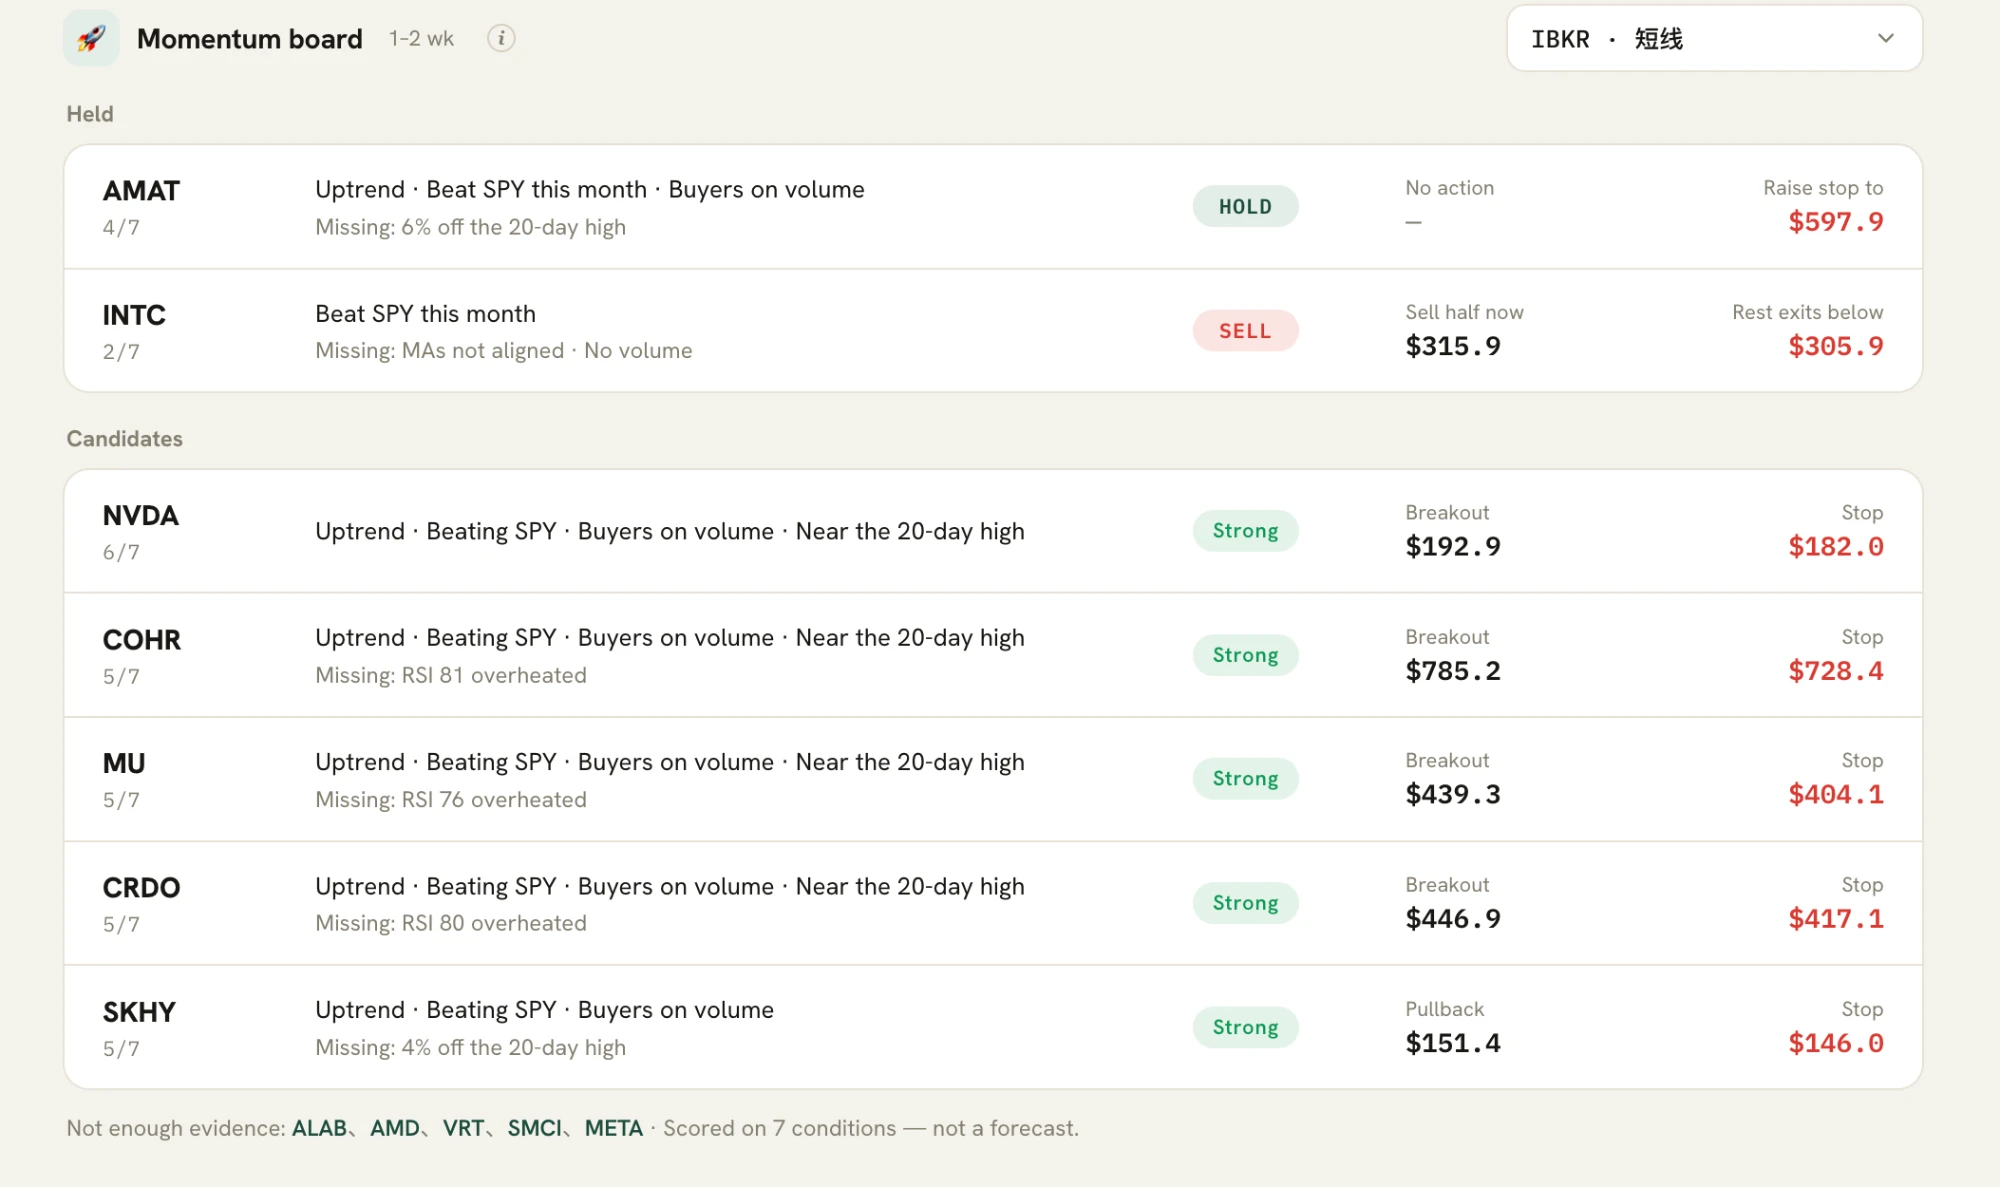
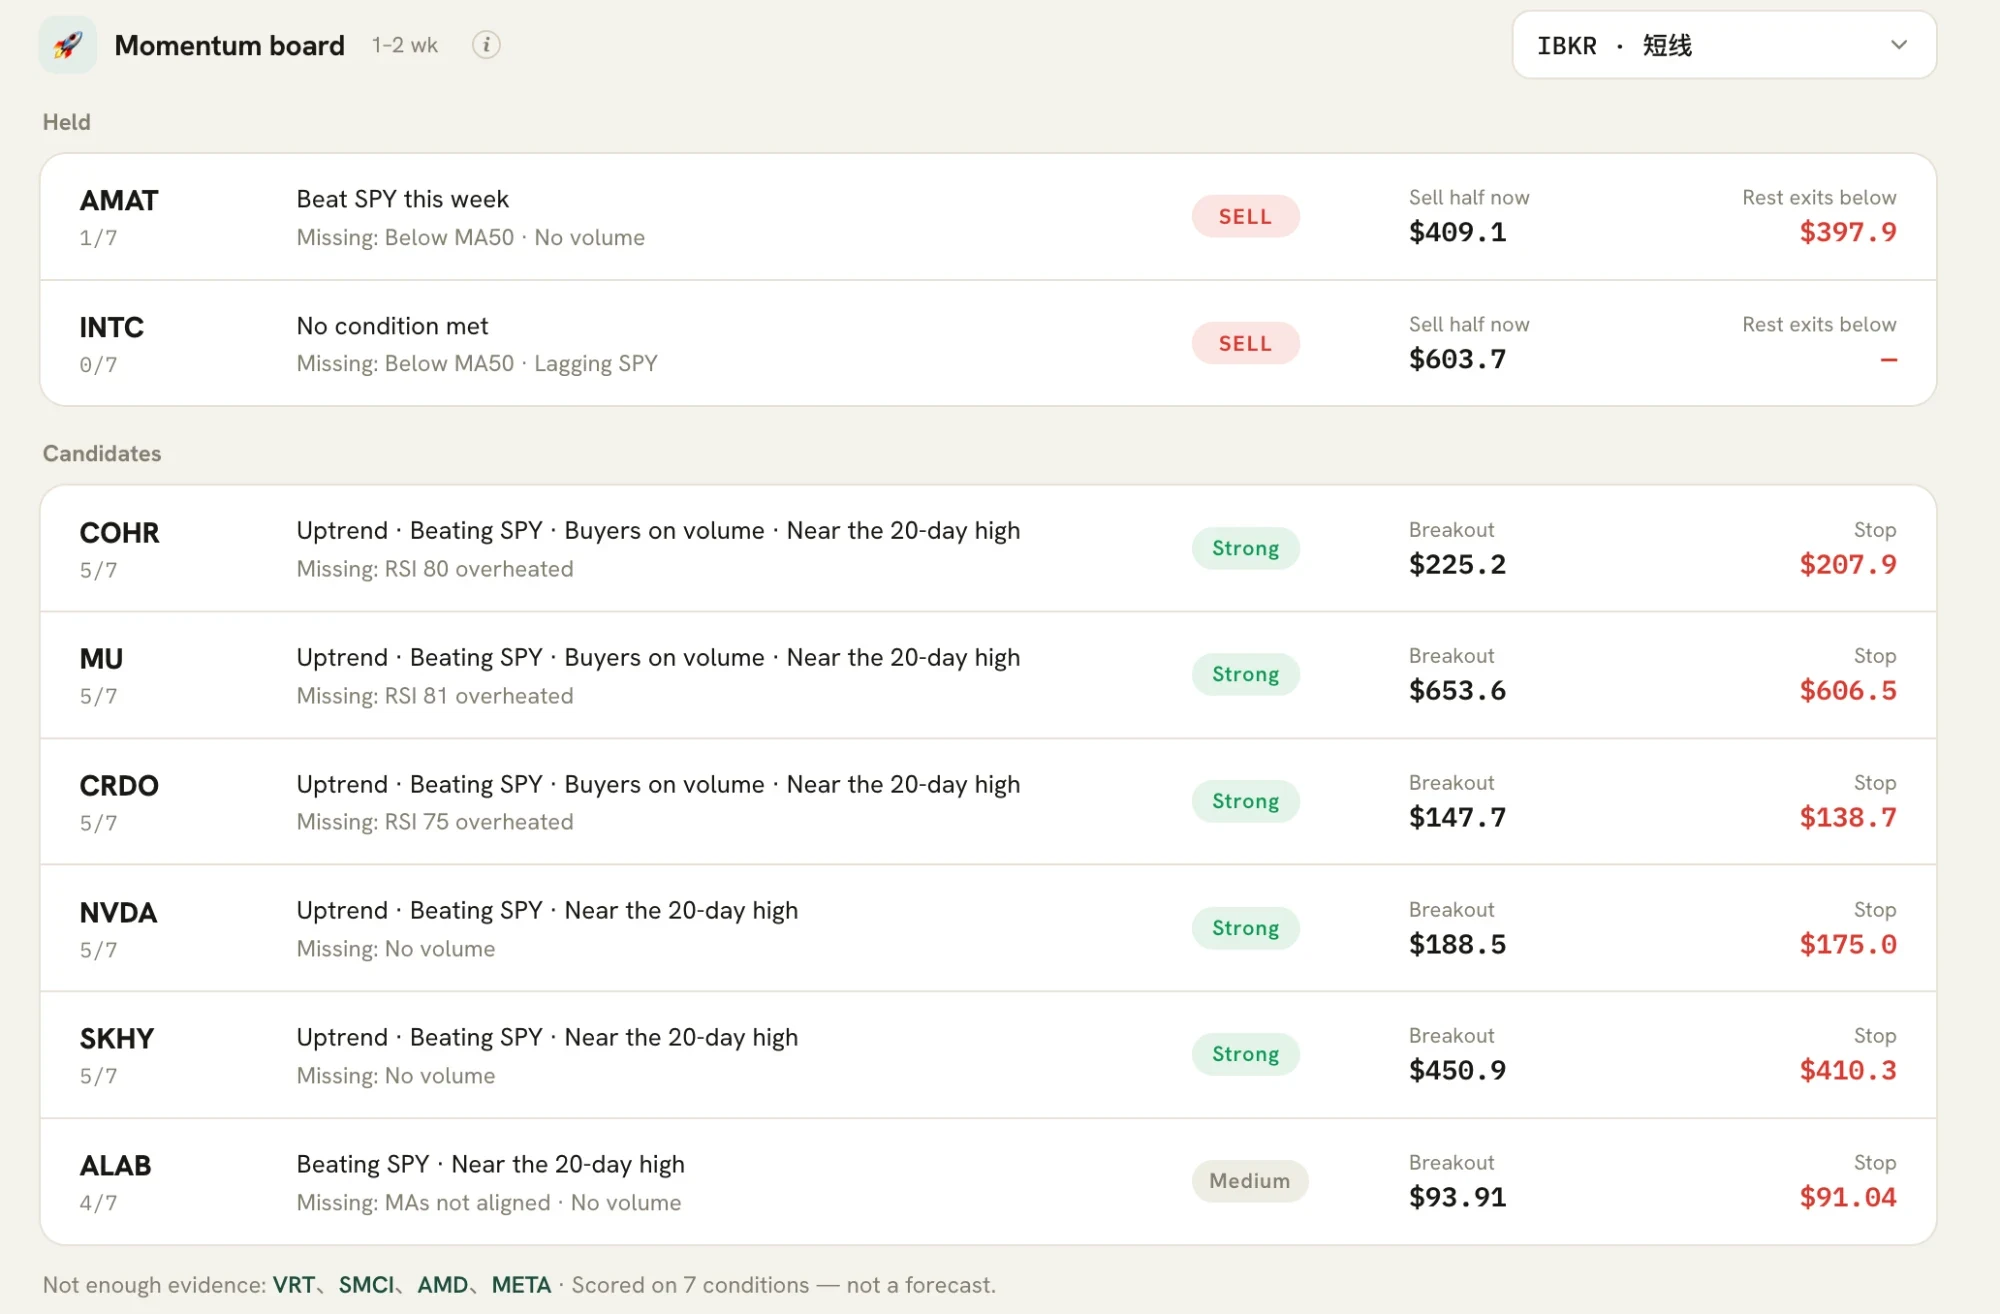
LOOP Core flow: stacked layout, six new full-width step images, COHR numbers from the new screens

diff --git a/loop/index.html b/loop/index.html
@@ -184,10 +184,12 @@ h3{font-size:clamp(24px,2.6vw,32px);font-weight:600;line-height:1.12;letter-spac
 .steps button[aria-selected="true"]{background:var(--ink);color:var(--night-fg)}
 .steps button[aria-selected="true"] span{color:var(--lime)}
 .steps button:focus-visible{outline:3px solid var(--lilac);outline-offset:2px}
-.pair{display:grid;grid-template-columns:.85fr 1.15fr;gap:16px}
-.side h3{min-height:3.4em}
-.side p.body{min-height:3.2em}
-@media (max-width:820px){.side h3,.side p.body{min-height:0}.bigstep{display:none}}
+.pair{display:grid;grid-template-columns:1fr;gap:16px}
+.side.old{display:grid;grid-template-columns:minmax(0,1fr) auto;column-gap:32px;row-gap:12px;align-items:start}
+.side.old>*{grid-column:1}
+.side.old .bigstep{grid-column:2;grid-row:1 / span 3;align-self:end;margin-top:0}
+.side.new .slot{margin-top:8px}
+@media (max-width:820px){.side.old{display:flex}.bigstep{display:none}}
 .bigstep{margin-top:auto;font-family:var(--f-serif);font-style:italic;font-size:min(clamp(96px,12vw,180px),40cqi);line-height:.8;color:#F2B08A;letter-spacing:-.02em;max-width:100%;overflow:hidden;padding-right:.12em}
 .side{border-radius:var(--r);padding:32px;display:flex;flex-direction:column;gap:16px;min-width:0}
 .side.old{background:var(--peach);container-type:inline-size}
@@ -795,27 +797,27 @@ input[type=range]:focus-visible{outline:3px solid var(--lilac);outline-offset:4p
       <div class="app" aria-label="LOOP plan card for COHR, sample data">
         <div class="app-top"><b>COHR plan</b><span class="tagp">Sample data</span></div>
         <div class="field">
-          <label for="risk">Max loss if stopped out <output id="riskOut" for="risk" class="num">$1,140</output></label>
-          <input type="range" id="risk" min="570" max="2850" step="570" value="1140">
+          <label for="risk">Max loss if stopped out <output id="riskOut" for="risk" class="num">$6,750</output></label>
+          <input type="range" id="risk" min="3375" max="16875" step="3375" value="6750">
         </div>
         <div class="ruler" id="ruler">
           <div class="axis"></div>
-          <div class="band risk" id="bRisk">−$1,140</div>
-          <div class="band rew" id="bRew">+$2,460</div>
+          <div class="band risk" id="bRisk">−$6,750</div>
+          <div class="band rew" id="bRew">+$26,850</div>
           <div class="zone" id="zone"></div>
           <div class="now" id="now"></div>
-          <span class="nowlab" id="nowlab">785.20</span>
-          <span class="lab" id="labStop" style="color:var(--loss)">Stop 680</span>
-          <span class="lab" id="labZone" style="color:var(--gain);top:0">Zone 700–750</span>
-          <span class="lab" id="labTgt" style="transform:translateX(-100%)">Target 800</span>
+          <span class="nowlab" id="nowlab">225.19</span>
+          <span class="lab" id="labStop" style="color:var(--loss)">Stop 188</span>
+          <span class="lab" id="labZone" style="color:var(--gain);top:0">Zone 200–230</span>
+          <span class="lab" id="labTgt" style="transform:translateX(-100%)">Target 300</span>
         </div>
         <div class="kpis">
-          <div><span>Reward / risk</span><b style="color:var(--gain)">2.2</b></div>
-          <div><span>Shares</span><b id="kSh">30</b></div>
-          <div><span>Capital</span><b id="kCap">$21,540</b></div>
+          <div><span>Reward / risk</span><b style="color:var(--gain)">3.98</b></div>
+          <div><span>Shares</span><b id="kSh">300</b></div>
+          <div><span>Capital</span><b id="kCap">$63,150</b></div>
         </div>
         <div class="buys" id="buys"></div>
-        <p id="limit" class="calm">● 24.6% of account, inside your 40% limit</p>
+        <p id="limit" class="calm">● 20.0% of account, inside your 40% limit</p>
       </div>
     </div>
   </div>
@@ -942,12 +944,12 @@ document.querySelectorAll('#nav-mobile-menu a').forEach(a=>a.addEventListener('c
   function lines(el){var t=el.textContent.trim();var parts=t.split(/(?<=[.!?:])\s+(?=[A-Z$“"])/);if(parts.length<2)return;el.textContent='';parts.forEach(function(x){var sp=document.createElement('span');sp.className='ln';sp.textContent=x;el.appendChild(sp)})}
   document.querySelectorAll('.lede,.why p,.lt>p,.case p').forEach(lines);
   var steps=[
-    {n:"Spot",oh:"You scroll six apps for an hour to find one idea.",op:"Nothing says why a stock is worth a look.",nh:"The momentum board finds COHR and says why.",np:"5 of 7 conditions met. Each one is a plain sentence.",s:"Screen recording: momentum board",img:"../images/loop/step1-momentum.webp",iw:2000,ih:1187,ia:"The LOOP momentum board: held positions with HOLD and SELL, then candidates such as NVDA, COHR, MU, CRDO and SKHY, each with a score out of 7, a breakout price and a stop"},
-    {n:"Decide",oh:"You draw support lines by hand and hope they're right.",op:"A different answer every day.",nh:"The stock page says it plainly: strong, but overheated.",np:"Uptrend, RSI 81. Wait for a pullback to 700–750.",s:"Screen recording: COHR stock page",img:"../images/loop/step2-stock.webp",iw:2000,ih:1525,ia:"The LOOP stock page for COHR: an Uptrend near the 20-day high, a 120-day candlestick chart with support bands, RSI 81, and key levels"},
-    {n:"Plan",oh:"The plan lives in your head, with no stop and a size picked by feel.",op:"Around 725, buy some. No stop. Size by mood.",nh:"I pick how much I'll risk, and LOOP works out the rest.",np:"$1,140 of risk → 30 shares in three buys. Try it below.",s:"Screen recording: creating the plan",img:"../images/loop/step3-plan.webp",iw:2000,ih:1246,ia:"The LOOP Edit COHR plan form: buy zone 700 to 750, stop 680, target 800, size 20 percent of the account in three tranches, with a live preview of reward to risk 2.2, shares and capital"},
-    {n:"Wait",oh:"You stare at the screen all day, or set alerts one at a time.",op:"The market owns your attention.",nh:"Today tells me when COHR reaches the zone, and stays quiet otherwise.",np:"First buy: 10 shares at 750.",s:"Screen recording: Today view"},
-    {n:"Buy",oh:"You chase the move, then forget why you bought.",op:"FOMO wins. The plan is gone.",nh:"I import the statement, and every fill finds its plan.",np:"The off-plan buy gets flagged. No manual tagging.",s:"Screen recording: importing an IBKR statement"},
-    {n:"Learn",oh:"A spreadsheet can't tell a plan from an impulse.",op:"So the same mistakes repeat.",nh:"My own trades show whether discipline pays.",np:"Planned trades made $310 more each, in the sample.",s:"Screen recording: Review"}
+    {n:"Spot",oh:"You scroll six apps for an hour to find one idea.",op:"Nothing says why a stock is worth a look.",nh:"The momentum board finds COHR and says why.",np:"5 of 7 conditions met. Each one is a plain sentence.",s:"Screen recording: momentum board",img:"../images/loop/step1-momentum.webp",iw:2000,ih:1314,ia:"The LOOP momentum board: held positions AMAT and INTC with SELL, then candidates COHR, MU, CRDO, NVDA, SKHY and ALAB, each with a score out of 7, a breakout price and a stop"},
+    {n:"Decide",oh:"You draw support lines by hand and hope they're right.",op:"A different answer every day.",nh:"The stock page says it plainly: strong, but overheated.",np:"Uptrend, near the 20-day high, RSI 80. So I set a buy zone of 200–230.",s:"Screen recording: COHR stock page",img:"../images/loop/step2-stock.webp",iw:1996,ih:1518,ia:"The LOOP stock page for COHR: an Uptrend near the 20-day high, a 120-day candlestick chart with support bands, RSI 80, and key levels"},
+    {n:"Plan",oh:"The plan lives in your head, with no stop and a size picked by feel.",op:"Around 215, buy some. No stop. Size by mood.",nh:"I pick how much I'll risk, and LOOP works out the rest.",np:"$6,750 of risk → 300 shares in three buys. Try it below.",s:"Screen recording: creating the plan",img:"../images/loop/step3-plan.webp",iw:1998,ih:1302,ia:"The LOOP Edit COHR plan form: buy zone 200 to 230, stop 188, target 300, size 20 percent of the account in three tranches, with a live preview of reward to risk 3.98, shares and capital"},
+    {n:"Wait",oh:"You stare at the screen all day, or set alerts one at a time.",op:"The market owns your attention.",nh:"Today tells me when COHR reaches the zone, and stays quiet otherwise.",np:"COHR is in its zone, 200–230. First buy: 60 shares at 230.",s:"Screen recording: Today view",img:"../images/loop/step4-today.webp",iw:2000,ih:1289,ia:"The LOOP Today screen: COHR is in its zone 200 to 230, now 225.19, with the plan of 300 shares and the first tranche of 60 at 230"},
+    {n:"Buy",oh:"You chase the move, then forget why you bought.",op:"FOMO wins. The plan is gone.",nh:"I import the statement, and every fill finds its plan.",np:"60 of 313 shares filled. The 60 added outside the plan get flagged.",s:"Screen recording: importing an IBKR statement",img:"../images/loop/step5-plan-detail.webp",iw:2000,ih:821,ia:"The LOOP COHR plan detail: in zone, stop 188, zone 200 to 230, target 300, 60 of 313 shares filled, and a note that 60 shares were added outside the plan"},
+    {n:"Learn",oh:"A spreadsheet can't tell a plan from an impulse.",op:"So the same mistakes repeat.",nh:"My own trades show whether discipline pays.",np:"So far every closed trade was off-plan, and only 53% of buys followed a plan.",s:"Screen recording: Review",img:"../images/loop/step6-review.webp",iw:2000,ih:1316,ia:"The LOOP Review screen: Plan vs off-plan, all closed trades so far were off-plan, and 53 percent of buys were made per plan"}
   ];
   var tl=document.getElementById('steps'),cur=0,btns=[];
   if(tl){
@@ -970,22 +972,22 @@ document.querySelectorAll('#nav-mobile-menu a').forEach(a=>a.addEventListener('c
   }
 
   /* plan card */
-  var AVG=718,STOP=680,TGT=800,NOW=785.2,ACCT=87500,LIM=0.40,LO=665,HI=830;
+  var AVG=210.5,STOP=188,TGT=300,NOW=225.19,ACCT=315750,LIM=0.40,LO=180,HI=310;
   var $=function(id){return document.getElementById(id)};
   function money(v){return '$'+Math.round(v).toLocaleString('en-US')}
   function pos(p){return ((p-LO)/(HI-LO)*100)+'%'}
   function place(){
     $('bRisk').style.left=pos(STOP);$('bRisk').style.width='calc('+pos(AVG)+' - '+pos(STOP)+')';
     $('bRew').style.left=pos(AVG);$('bRew').style.width='calc('+pos(TGT)+' - '+pos(AVG)+')';
-    $('zone').style.left=pos(700);$('zone').style.width='calc('+pos(750)+' - '+pos(700)+')';
+    $('zone').style.left=pos(200);$('zone').style.width='calc('+pos(230)+' - '+pos(200)+')';
     $('now').style.left=pos(NOW);$('nowlab').style.left=pos(NOW);
-    $('labStop').style.left=pos(STOP);$('labZone').style.left='calc('+pos(700)+' + 0px)';$('labTgt').style.left=pos(TGT);
+    $('labStop').style.left=pos(STOP);$('labZone').style.left='calc('+pos(200)+' + 0px)';$('labTgt').style.left=pos(TGT);
   }
   function calc(){
     var r=+$('risk').value,sh=Math.round(r/(AVG-STOP)),t=sh/3,cap=sh*AVG,pct=cap/ACCT;
     $('riskOut').textContent=money(r);$('bRisk').innerHTML='<b>−'+money(r)+'</b>';$('bRew').innerHTML='<b>+'+money(sh*(TGT-AVG))+'</b>';
     $('kSh').textContent=sh;$('kCap').textContent=money(cap);
-    $('buys').innerHTML=[750,725,700].map(function(p){return '<span>'+p+' × '+t+'</span>'}).join('');
+    $('buys').innerHTML=[[230,.2],[215,.3],[200,.5]].map(function(b){return '<span>'+b[0]+' × '+Math.round(sh*b[1])+'</span>'}).join('');
     var l=$('limit');
     if(pct>LIM){l.className='warn';l.textContent=(pct*100).toFixed(1)+'% of account, over your 40% single-stock limit'}
     else{l.className='calm';l.textContent='● '+(pct*100).toFixed(1)+'% of account, inside your 40% limit'}
